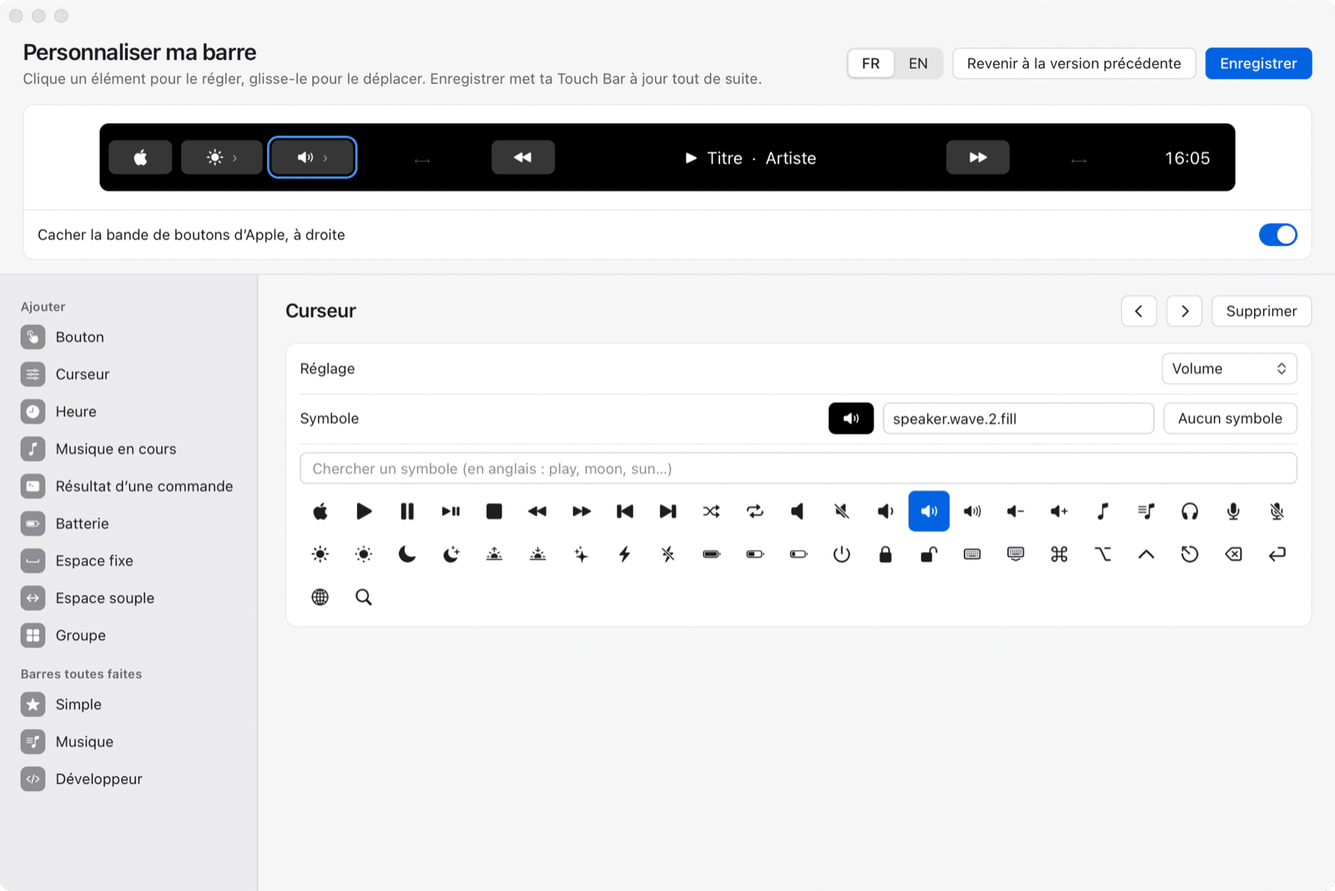
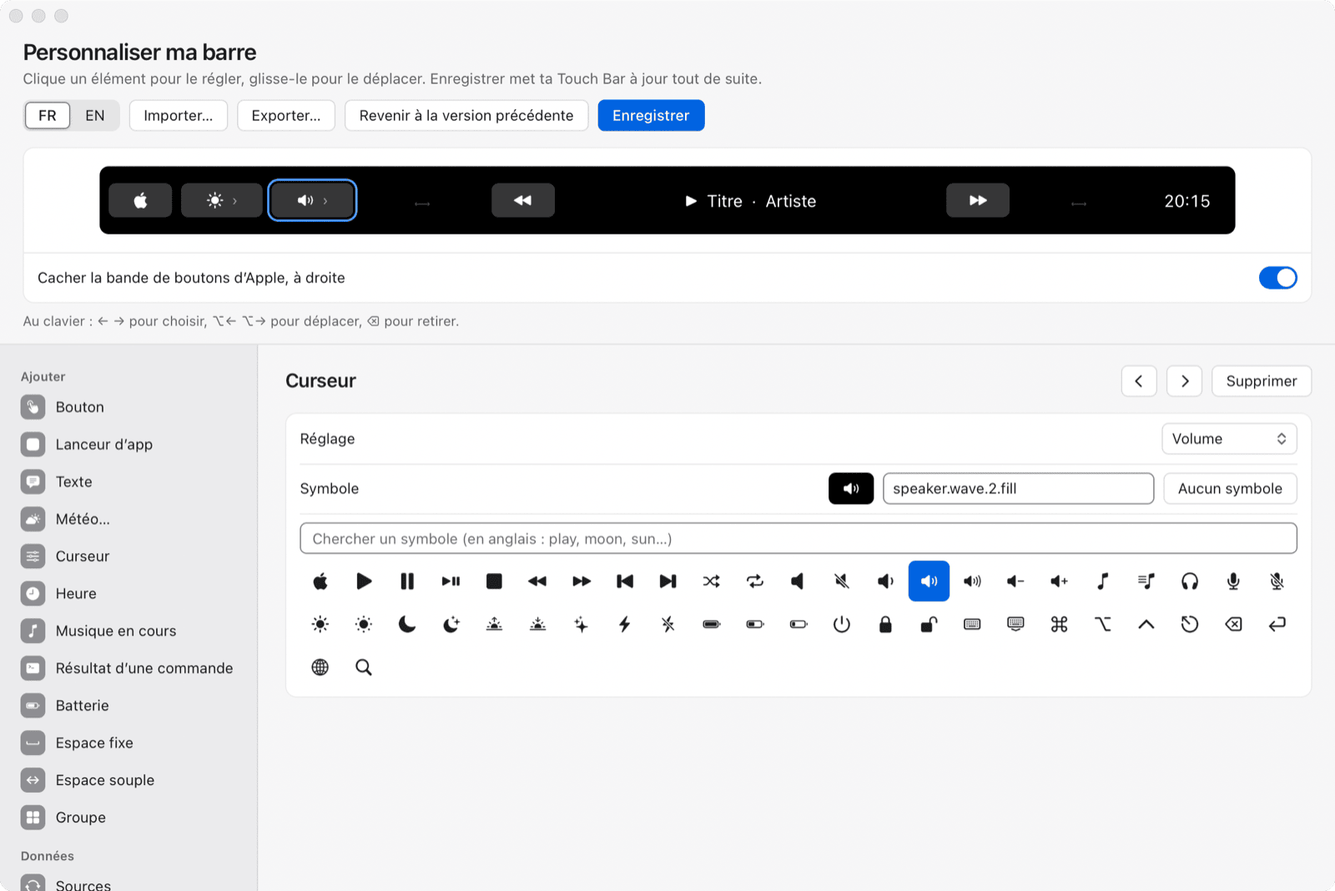
docs: lot E de l'éditeur (README, architecture, changelog, synthèse, captures)
Claude-Session: https://claude.ai/code/session_01F5zcax6QngTrp6o3SE8jCv

diff --git a/docs/ARCHITECTURE.md b/docs/ARCHITECTURE.md
@@ -100,8 +100,8 @@ Tout ce qui touche AppKit tourne sur le fil principal. Le travail lent (une comm
 
 Une `NSWindow` dont la vue de contenu est une `WKWebView` ; la page est `src/editeur/editeur.html`, chargée par `loadHTMLString:baseURL:` (base `file:///`, pour que `localStorage` garde la langue choisie). Tout passe par deux canaux :
 
-- **JS → Rust** : `window.webkit.messageHandlers.tactile.postMessage(JSON)`, reçu par `TactileEditeur` (`userContentController:didReceiveScriptMessage:`). Messages : `pret` (la page est chargée), `enregistrer { barre, fermer? }`, `revenir`, `prereglage { nom }`, `symboles { noms }`, `iconesApps { noms }`, `choisirApp`, `verifierApp { nom }`, `modifie { valeur }`, `fermer`, `ouvrirFichier`, `relire`, `titre { texte }`, `journal { texte }`, `capture { chemin }`, `choisirImage`, `deposerImage { nom, donnees }`, `importerImage { chemin }`, `images { chemins }`, `exporter { barre, zip? }`, `exporterVers { barre, chemin }`, `importer`, `importerBarre { chemin }`, `deposerBarre { nom, donnees }`, `confirmerImport`, `annulerImport`.
-- **Rust → JS** : `evaluateJavaScript:` sur `window.tactile` : `charger(barre, aPrecedent)`, `illisible(message, extrait, aPrecedent)`, `glyphes({ nom: dataURL | null })`, `iconesApps({ app: dataURL | null })`, `enregistre(manuel, aPrecedent)`, `revenu()`, `abimeGarde(nom)`, `erreur(texte)`, `appChoisie(nom)`, `appVerifiee(nom, trouvee, suggestion)`, `demanderFermeture()`, `imageChoisie(chemin, dataURL)`, `imageRefusee(texte)`, `images({ chemin: dataURL | null })`, `exportAvertir(logos, chemin)`, `exporte(nom, logos, avis)`, `importPret({ nom, barre, commandes, avis, logos })`, `importe(manuel, aPrecedent)`, `partageRefuse({ fr, en })`.
+- **JS → Rust** : `window.webkit.messageHandlers.tactile.postMessage(JSON)`, reçu par `TactileEditeur` (`userContentController:didReceiveScriptMessage:`). Messages : `pret` (la page est chargée), `enregistrer { barre, fermer? }`, `revenir`, `prereglage { nom }`, `symboles { noms }`, `iconesApps { noms }`, `choisirApp`, `verifierApp { nom }`, `modifie { valeur }`, `fermer`, `ouvrirFichier`, `relire`, `titre { texte }`, `journal { texte }`, `capture { chemin }`, `choisirImage`, `deposerImage { nom, donnees }`, `importerImage { chemin }`, `images { chemins }`, `exporter { barre, zip? }`, `exporterVers { barre, chemin }`, `importer`, `importerBarre { chemin }`, `deposerBarre { nom, donnees }`, `confirmerImport { ajouter?, barre? }`, `annulerImport`, `mesurer { barre }`, `chercherVille { nom, langue }`, `meteo { nom, latitude, longitude }`, `ouvrirReglages`.
+- **Rust → JS** : `evaluateJavaScript:` sur `window.tactile` : `charger(barre, aPrecedent)`, `illisible(message, extrait, aPrecedent)`, `glyphes({ nom: dataURL | null })`, `iconesApps({ app: dataURL | null })`, `enregistre(manuel, aPrecedent, avis)`, `revenu()`, `abimeGarde(nom)`, `erreur(texte)`, `appChoisie(nom)`, `appVerifiee(nom, trouvee, suggestion, localise)`, `deborde(caches)`, `villes(liste | null, erreur)`, `meteoPrete(source, element)`, `demanderFermeture()`, `imageChoisie(chemin, dataURL)`, `imageRefusee(texte)`, `images({ chemin: dataURL | null })`, `exportAvertir(logos, chemin)`, `exporte(nom, logos, avis)`, `importPret({ nom, barre, commandes, avis, logos, code })`, `importe(manuel, aPrecedent)`, `partageRefuse({ fr, en })`.
 
 La barre circule en JSON avec les mêmes noms que le TOML (`serde_json` sur `config::Barre`, qui dérive `Serialize`). À l'enregistrement, Rust convertit le JSON en `Barre`, écrit le TOML (`config::ecrire`, en-tête fixe + `toml::to_string_pretty`), le **relit** avec `config::lire`, puis `verifier` refuse ce que la barre ne saurait pas afficher (symbole SF inconnu, couleur hors `#RRGGBB`, intervalle < 0,1 s) et `config::controler` ce qui la rendrait inutilisable : une barre principale vide, même avec des `[[application]]` (la barre montrerait « ⚠ config vide »), avec le même message que `--verifier`. Seulement alors le fichier est écrit. La barre se recharge par la surveillance habituelle du fichier : l'éditeur ne parle jamais à `barre::`.
 
@@ -120,6 +120,16 @@ Images venues de l'extérieur : avant tout décodage, `barre::controler_image` (
 Lanceurs : la page demande l'icône de chaque `app` (`iconesApps`), Rust répond avec `barre::icone_app` (cache de la barre, sans le point « ouverte ») en data URL PNG ; la page la garde par nom. Le champ App réutilise « Choisir… » et la vérification / suggestion des actions `app`. Les actions système sont listées sous un intitulé « Système » (`ACTIONS_SYSTEME`).
 
 Exporter et importer (`partage.rs`). L'export part de la barre affichée dans la page (enregistrée ou non) ; sans logo, un `.toml` ; avec, un `.zip` dont le `barre.toml` pointe vers `icones/<nom>` et qui ne contient que les images utilisées. Un `.toml` choisi pour une barre à logos : `exportAvertir`, la page propose le `.zip`. L'import traite le fichier comme non fiable : reconnu `.zip` à sa signature `PK`, lu en mémoire (jamais extrait sous ses propres noms) ; une entrée avec `..`, un chemin absolu (`/`, `\`, `C:`), un lien symbolique ou deux entrées au même nom (le crate `zip` n'en garderait qu'une) fait refuser toute l'archive ; seuls `barre.toml` et `icones/<image>` sont gardés (le reste est listé en avis) ; limites : 10 Mo d'archive (vérifiée avant lecture), 200 entrées, 2 Mo par image et 1 Mo de TOML, relues avec `take` puisque la taille annoncée peut mentir. Les images partent dans un dossier temporaire supprimé avec le `Paquet`. Puis `config::lire`, `config::controler` (grave = refus, le reste en avis) et `verifier`. `commandes` liste ce qui lance quelque chose (`shell`, `applescript`, `touche`, `keycode`, `app`, `url` non http(s), actions système, app d'un `lanceur`, commande d'un `script`, appui long compris, puis chaque `[[source]]` : sa commande, son serveur MCP lancé ou distant, l'adresse lue) ; la page l'affiche avec l'aperçu de la barre et donne le focus à Annuler s'il y en a. « Remplacer ma barre » : chaque logo passe par `icones::importer_en_png` (toujours redessiné en PNG, jamais copié tel quel ; un suffixe `-<8 hex>` du nom d'origine est retiré avant de rajouter le hachage du contenu), puis `enregistrer` écrit avec l'historique. Un `.toml` seul peut emporter les images relatives `icones/x.png` posées à côté de lui (un `.zip` décompressé), sous les mêmes limites. Le dépôt d'un fichier dans la page (image ou barre) est limité à 10 Mo, vérifié par le JS et par Rust avant de décoder le base64 (`icones::decoder_depot`). Le `.zip` exporté réécrit la barre par `config::ecrire` : les commentaires du fichier n'y sont pas ; un `.toml` exporté en ligne de commande recopie le fichier tel quel.
+
+Lot E (0.3) :
+
+- **Menu principal** (`menu_principal`, posé par `ouvrir`) : Édition (Annuler, Rétablir, Couper, Copier, Coller, Tout sélectionner) vise le premier répondeur avec les sélecteurs standards (`undo:`, `paste:`…), comme toute app : sans lui, AppKit ne trouve pas ⌘C ⌘V ⌘X ⌘A ⌘Z et rien ne se passe dans les champs. Fichier › Fermer ⌘W (`performClose:`, donc `windowShouldClose:`), Présentation › Agrandir ⌘+ (et ⌘= caché), Réduire ⌘−, Taille réelle ⌘0 sur le pont (`agrandir:`…), qui règle `pageZoom` de la WKWebView par paliers (75 % à 250 %) et le garde dans `NSUserDefaults` (`TactileZoomEditeur`). Quitter ⌘Q seulement avec `--personnaliser`. La page est en `rem` (sauf l'aperçu, objet à l'échelle 1) ; à 200 % l'en-tête passe à la ligne et l'aperçu se réduit (`zoom` CSS calculé sur l'événement `resize`, pas de ResizeObserver qui bouclerait sur la hauteur qu'il change).
+- **Avertissements après l'enregistrement** : le fichier écrit est relu et passé à `config::controler` (les avis non graves) ; `barres::avis_humain` réécrit les deux cas courants dans les deux langues (app absente, débordement) sans numéro de ligne ni « bundle id », en reconnaissant le texte de `controler` (verrouillé par le test `avis_lisibles`). Les avis d'import passent par la même fonction ; `execute_du_code` dit si la barre importée lance une commande (shell, AppleScript, `script`, source `commande`, serveur MCP lancé), seul cas où la page parle d'effacer des fichiers.
+- **Débordement dans l'aperçu** : à chaque changement, la page envoie `mesurer { barre }` ; Rust répond avec `barre::debordement` (la même estimation que `--verifier`), et la page estompe et barre les `caches` derniers éléments.
+- **Nom traduit** : `chercher_app` essaie, avant la distance d'édition, `app_au_nom_traduit` : `CFBundleDisplayName` / `CFBundleName` de chaque `.app` des dossiers d'apps, dans toutes ses langues (`InfoPlist.loctable` des apps d'Apple, sinon `<langue>.lproj/InfoPlist.strings`, lus par `NSDictionary`). Spotlight ne suffit pas : il n'indexe que la langue du système.
+- **Météo et sources** : `chercherVille` construit l'adresse de géocodage Open-Meteo (nom encodé, 5 résultats) et l'appelle sur un autre fil par `sources::http::requete` (le `curl` des sources, 8 s au plus) ; la réponse revient sur le fil principal par `performSelectorOnMainThread:` sur le pont (`executer:`). `meteo` construit la `[[source]]` et l'élément `texte` d'après `exemples/meteo.toml` (symboles WMO, couleurs), coordonnées vérifiées. La section Sources de la page modifie `barre.source` directement ; un renommage (à la fin de la saisie, refusé si le nom est pris) suit dans les éléments qui la citent.
+- **Ajouter à ma barre** : `confirmerImport { ajouter: true, barre }` remplace `paquet.barre` par `barres::fusionner(barre de la page, barre reçue)` (éléments à la fin, barres d'application fusionnées par app, source au nom pris renommée `nom 2` avec ses éléments, source identique non doublée), puis `partage::installer` comme pour un remplacement. Une barre toute faite garde les barres d'application **et** les sources qu'elles citent (`barres::prereglage`).
+- **Accessibilité de la page** : le focus est rendu après chaque redessin (`dessinerBarre` si le focus était dans l'aperçu ; `cleFocus` / `rendreFocus` retrouvent un contrôle du panneau par son id ou ses `data-`), le voisin reçoit le focus après une suppression, annulable par « Annuler » ou ⌘Z (hors champ ; dans un champ, l'Annuler du menu reste à WebKit). Noms accessibles de l'aperçu (« Lanceur d'app Safari, ouvre Safari, 2 sur 9 »), `aria-selected` vrai/faux, grille de symboles en listbox à un seul arrêt de tabulation. `etat()` prend une fonction rappelée au changement de langue, ne réécrit pas un message identique et passe en `role="alert"` pour une erreur. Jetons : `--controle-bord` (bord de champ, interrupteur éteint, segment choisi, ≥ 3:1), `--attention` (orange AA), anneau de focus opaque `--accent`.
 
 Les symboles SF n'existent pas dans le web : Rust les rend en PNG (`NSImage imageWithSystemSymbolName:` → `TIFFRepresentation` → `NSBitmapImageRep`), les envoie en data URL, et la page les affiche en `mask-image` sur `currentColor`. Un nom inconnu renvoie `null` : la page le signale et l'enregistrement le refuse (un symbole inconnu fait planter la barre, cf. SYNTHESE A1).
 

diff --git a/docs/retours/0.3/SYNTHESE.md b/docs/retours/0.3/SYNTHESE.md
@@ -1,0 +1,63 @@
+# Synthèse de la campagne de tests 0.3
+
+Demandée par l'utilisateur : tests unitaires, tests fonctionnels sur la vraie barre, personas IA. Rapports dans ce dossier : `couverture.md` (unitaires), `fonctionnel.md` (vraie barre), `nadia-debutante.md`, `lise-btt.md`, `sam-english-dev.md`, `karim-securite.md` (sécurité), `ines-accessibilite.md` (accessibilité). L'écran du Mac est resté verrouillé presque toute la campagne : ce qui dépend de l'affichage est à revoir écran ouvert.
+
+Déjà corrigé pendant la campagne (branche des tests unitaires, intégrée) : intervalle `1e300` qui faisait planter la barre, `nan`/`inf` acceptés, `http://localhost:80@example.org/` envoyé en clair à un tiers, action d'un élément `texte` absente de l'aperçu d'import, deux `barre.toml` dans un zip, compte de logos faux, arrondis de volume/luminosité et de nombres passés par la page.
+
+## Lot S — sécurité (avant toute release)
+
+| # | Problème | Source | Gravité |
+|---|---|---|---|
+| S1 | L'aperçu d'import ne montre pas les `entetes` d'une source : un `trousseau:` peut envoyer un secret de l'utilisateur à une URL tierce toutes les 5 s | Karim | haute |
+| S2 | Revue complète de ce que l'aperçu d'import doit montrer : tout ce qui exécute, lit un secret, lit un fichier ou appelle le réseau, pour **chaque** type d'élément et de source (une seule fonction exhaustive, `match` sans `_ =>`), confirmation renforcée si trousseau + URL non locale | Karim, Lise, unitaires | haute |
+| S3 | Sortie d'une commande (script, source `commande`, MCP stdio) lue sans plafond : `cat /dev/zero` sature la mémoire avant le délai | Karim | moyenne |
+| S4 | `image` d'une barre importée peut pointer n'importe quel fichier (`/etc/passwd`, `~/.ssh/…`) | Karim | basse |
+| S5 | Messages JS `capture`, `importerImage`, `importerBarre` : chemin libre sans garde | Karim | basse |
+
+## Lot E — éditeur (Nadia, Lise, Inès)
+
+| # | Problème | Source | Gravité |
+|---|---|---|---|
+| E1 | Pas de menu Édition : ⌘C / ⌘V / ⌘X / ⌘A / ⌘Z probablement inopérants dans les champs | Inès | majeur |
+| E2 | Météo impossible sans TOML : pas d'élément Texte/Météo dans la palette, pas de réglage de source ni de ville ; import qui remplace tout (pas d'« Ajouter à ma barre ») | Nadia | majeur |
+| E3 | Lanceur d'app absente (Figma) ou nom localisé (« Musique ») enregistré comme réussi ; alerte ⚠ blanche sur blanc en clair | Nadia | majeur |
+| E4 | Barre qui déborde enregistrée comme réussie ; l'aperçu ne montre pas ce qui sera caché | Nadia | majeur |
+| E5 | Barre toute faite : efface les `[[source]]` mais garde les `[[application]]` qui les citent | Lise | moyen |
+| E6 | Focus perdu après Entrée, choix de symbole, Supprimer ; ⌫ supprime sans confirmation ni annulation ; raccourcis de déplacement non dits | Inès | majeur |
+| E7 | VoiceOver : aperçu « Bouton, Bouton… » sans nom ; `aria-selected="null"` ; grille de symboles (aria-pressed sur role=option, 48 arrêts de tabulation) ; `aria-live` qui relit tout | Inès | majeur |
+| E8 | Contrastes : anneau de focus 1,69:1, interrupteur éteint 1,17:1, segment choisi 1,26:1, bordures 1,45:1, placeholder 3,26:1, lien accent sombre 4,46:1 | Inès | majeur |
+| E9 | Zoom : pas de ⌘+ / ⌘−, à 200 % Enregistrer sort de l'écran | Inès | moyen |
+| E10 | Monochrome sur une image sans transparence → bloc blanc sans avertissement ; capture d'écran sans mention de l'autorisation Accessibilité ; changer de langue efface l'erreur affichée ; libellés d'import (`capture_zone`, « bundle id », « effacer des fichiers ») | Nadia | mineur |
+
+État du lot E : **fait**. Preuves : tests Rust, et le pilote `TACTILE_EDITEUR_JS` qui passe par les vrais contrôles de la page (46 assertions, toutes vertes en clair et en sombre ; scripts et captures dans le scratchpad de la session, `lotE3/fonc.js`, `lotE3/contrastes.js`).
+
+| # | Fait | Preuve |
+|---|---|---|
+| E1 | Menu principal quand la fenêtre est ouverte : Édition (Annuler, Rétablir, Couper, Copier, Coller, Tout sélectionner, sélecteurs standards vers le premier répondeur), Fichier › Fermer ⌘W, Présentation › Agrandir ⌘+ / Réduire ⌘− / Taille réelle ⌘0 | test `menu_principal_complet` (actions, raccourcis, cibles, réponse du pont). Pas essayé au vrai clavier : écran verrouillé |
+| E2 | Texte et Météo… dans la palette ; ville cherchée par géocodage Open-Meteo (seulement au clic, `curl` des sources, autre fil) ; source + texte WMO d'après `exemples/meteo.toml` ; section Sources (nom, type, adresse ou commande, intervalle) ; import « Ajouter à ma barre » (fusion, sources renommées) | tests `meteo_d_une_ville`, `fusion_des_elements_sources_et_applications` ; pilote : Lyon trouvée, source « Météo Lyon » et texte créés, renommage suivi, `exemples/meteo.toml` ajouté (10 éléments, sources `Lyon`, `meteo`). Capture `docs/editeur-meteo-sombre.png` |
+| E3 | Avis de `controler` après l'enregistrement (« Enregistré, 1 avertissement : l’app Figma n’est pas installée sur ce Mac. ») ; « Musique » → « Music » par les noms traduits des bundles ; ⚠ orange et « pas installée » dans le groupe | tests `avis_lisibles`, `app_installee_ou_non` (Musique, calendrier, Réglages Système) ; pilote ; ⚠ du groupe 1:1 → 5,57:1 en clair |
+| E4 | L'aperçu estompe et barre ce qui sera caché, « 1 élément ne tient pas : la Touch Bar le cachera » ; même avis après l'enregistrement | pilote (estimation Rust `barre::debordement` par `mesurer`) |
+| E5 | Barre toute faite : les `[[source]]` citées par les barres d'application gardées restent | test `barre_toute_faite_garde_les_sources_des_applications` |
+| E6 | Focus rendu après Entrée, flèches, choix de symbole, Supprimer (voisin) ; ⌫ annulable (« Annuler » ou ⌘Z) ; aide clavier sous l'aperçu | pilote : `activeElement` vérifié après chaque geste |
+| E7 | Noms accessibles (« Lanceur d’app Safari, ouvre Safari, 2 sur 5 »), `aria-selected` vrai/faux, `aria-orientation`, grille en listbox à tabindex itinérant, plus d'`aria-live` sur le panneau, message identique non réécrit, erreur en `role=alert` | pilote |
+| E8 | Contrastes AA | mesures avant → après (clair ; sombre) : anneau de focus 1,69 → 5,02 ; 2,11 → 6,16 · interrupteur éteint 1,33 → 4,51 ; 1,28 → 3,90 · bord de champ 1,45 → 3,98 ; 1,56 → 3,42 · segment choisi 1,26 → 3,15 ; 1,92 → 4,48 · placeholder 3,26 → 5,07 ; 3,45 → 5,31 · lien accent sombre 4,46 → 5,35 · ⚠ app absente 1,00 → 5,57 ; blanc → orange 7,44 |
+| E9 | Texte en `rem`, zoom de la page (`pageZoom`, gardé), en-tête qui passe à la ligne, aperçu réduit à la largeur | pilote à `zoom: 2` : Enregistrer dans la fenêtre, aucun défilement horizontal ; capture regardée |
+| E10 | Image opaque en monochrome signalée ; « Demande l’autorisation Accessibilité » + « Ouvrir les réglages » sur les frappes simulées ; la langue garde le message (l'erreur reste une erreur) ; import sans `capture_zone`, sans numéro de ligne ni « bundle id », « effacer des fichiers » seulement si la barre lance une commande | test `code_execute_seulement_si_commande` ; pilote |
+
+## Lot C — config, CLI, contribution (Sam, Lise)
+
+| # | Problème | Source | Gravité |
+|---|---|---|---|
+| C1 | Le README décrit des fonctions absentes de la release téléchargeable (0.2.0), `--version` dit 0.2.0 | Sam | majeur → release 0.3.0 |
+| C2 | `{text}` dans un `template` affiche « — » alors que `--check` dit OK ; `--check` doit valider les variables d'un gabarit | Sam | moyen |
+| C3 | Les messages citent la clé française même quand l'utilisateur a écrit l'alias anglais ; `template` chaîne sur un bouton → « attendu true ou false » | Sam | moyen |
+| C4 | Même app sous deux noms (`Finder` / `com.apple.finder`) non détectée ; message trompeur pour un bundle id absent ; lignes d'erreur d'un zip importé renvoient au fichier réécrit ; `cmd++` refusé | Lise | mineur |
+| C5 | CONTRIBUTING : `cargo not found` sans `mise exec`, durée des tests, étape 3 bloquante, raisons d'`ignore` en français ; README:229 incomplet (modificateurs) | Sam | mineur |
+
+## Lot F — vraie barre
+
+Voir `fonctionnel.md` (à compléter à l'arrivée du rapport de la vague B).
+
+## Reportés
+
+Barre d'Apple automatique par app (`barre = "apple"`), liste d'apps (`app = [...]`), éditeur des barres par app et des sources (prévu au chantier éditeur), import BTT, essai sur Mac Intel.

diff --git a/README.fr.md b/README.fr.md
@@ -128,16 +128,23 @@ L'icône de la barre des menus donne accès à tout :
 
 Dans le menu, choisis **Personnaliser ma barre…**. La fenêtre montre ta Touch Bar en haut, à sa vraie taille. Elle prend la langue du Mac ; FR / EN en haut à droite.
 
-- À gauche, **Ajouter** : un clic ajoute un bouton, un curseur, l'heure, la musique en cours, le résultat d'une commande, la batterie, un espace ou un groupe. Les trois **barres toutes faites** (Simple, Musique, Développeur) remplacent ta barre par un modèle que tu peux ensuite retoucher.
-- Dans l'aperçu, clique un élément pour le régler, glisse-le pour le déplacer. Au clavier : flèches pour passer d'un élément à l'autre, ⌥ + flèches pour le déplacer, suppr pour le retirer.
+- À gauche, **Ajouter** : un clic ajoute un bouton, un lanceur d'app, un texte, la météo, un curseur, l'heure, la musique en cours, le résultat d'une commande, la batterie, un espace ou un groupe. Les trois **barres toutes faites** (Simple, Musique, Développeur) remplacent ta barre par un modèle que tu peux ensuite retoucher.
+- Dans l'aperçu, clique un élément pour le régler, glisse-le pour le déplacer. Au clavier : flèches pour passer d'un élément à l'autre, ⌥ + flèches pour le déplacer, ⌫ pour le retirer (le message « Annuler » ou ⌘Z le remet). Ce qui ne tiendra pas dans la Touch Bar est estompé et barré, avec « 2 éléments ne tiennent pas » sous l'aperçu.
+- **Météo…** : tape le nom d'une ville, choisis-la dans la liste ; la fenêtre ajoute un texte avec la température et le symbole du temps, et la source Open-Meteo qui le nourrit. Seul le nom de la ville part sur le réseau, et seulement quand tu cliques **Chercher**. **Sources**, sous **Données**, liste les sources de ta barre : nom, adresse web ou commande, intervalle ; un élément Texte choisit la sienne dans une liste.
+
+  ![La fenêtre en sombre, avec la météo de Lyon ajoutée](docs/editeur-meteo-sombre.png)
 - À droite, les réglages de l'élément choisi : texte, symbole (cherche dans la liste, ou tape le nom exact d'un symbole SF), couleurs du fond et du texte, taille du texte, symbole seul ou texte seul, largeur, et ce qui se passe au toucher : lancer une application (le bouton **Choisir…** ouvre ton dossier Applications), ouvrir une adresse web, envoyer un raccourci clavier (`cmd+shift+4`), une commande shell ou AppleScript, ou une action système (luminosité, volume, lecture…). Un appui long peut faire autre chose. Ce que la fenêtre ne sait pas régler (un `keycode`) est gardé tel quel à l'enregistrement.
 - Pour mettre ton propre logo sur un bouton, clique **Choisir une image…** ou glisse le fichier sur le bouton : il est copié dans `~/.config/tactile/icones/` (un SVG, un PDF ou un icns y devient un PNG) et peut s'afficher en monochrome, comme les symboles Apple.
-- Un nom d'application tapé à la main est vérifié : s'il n'existe pas sur ton Mac, la fenêtre le dit sous le champ et propose le plus proche (« Photoshop » → « Adobe Photoshop 2025 »). **Choisir…** reste le plus sûr.
-- **Enregistrer** écrit le fichier et ta Touch Bar change dans la seconde. Si quelque chose cloche (un symbole qui n'existe pas, une couleur mal écrite, une barre vide), rien n'est écrit et la fenêtre te dit quoi corriger. Tant que tu n'as pas enregistré, « Modifié » s'affiche à côté du titre, et la fenêtre te demande confirmation avant de fermer, de charger une barre toute faite ou de revenir en arrière.
+- Un nom d'application tapé à la main est vérifié : s'il n'existe pas sur ton Mac, la fenêtre le dit sous le champ et propose le plus proche (« Photoshop » → « Adobe Photoshop 2025 »). Le nom que montre le Finder marche aussi : « Musique » propose « Music », le nom que la barre attend. **Choisir…** reste le plus sûr.
+- Un raccourci clavier, la touche esc ou une capture d'écran demandent l'autorisation Accessibilité : la fenêtre le dit sous l'action, avec un bouton qui ouvre le bon panneau de Réglages Système. Une image sans fond transparent est signalée quand tu passes en monochrome (elle deviendrait un bloc).
+- **Enregistrer** écrit le fichier et ta Touch Bar change dans la seconde. Si quelque chose cloche (un symbole qui n'existe pas, une couleur mal écrite, une barre vide), rien n'est écrit et la fenêtre te dit quoi corriger. Ce qui marchera mal sans tout bloquer est dit après l'enregistrement : « Enregistré, 1 avertissement : l'app Figma n'est pas installée sur ce Mac. » Tant que tu n'as pas enregistré, « Modifié » s'affiche à côté du titre, et la fenêtre te demande confirmation avant de fermer, de charger une barre toute faite ou de revenir en arrière.
 - **Revenir à la version précédente** remonte d'un enregistrement à chaque clic. Les 5 dernières versions sont gardées à côté de ta barre (`barre.toml.precedent`, puis `.precedent-2` à `.precedent-5`) ; la version que tu quittes passe en dernier, donc rien n'est perdu.
 - Si tu avais écrit ton fichier à la main avec des commentaires, le premier enregistrement depuis la fenêtre en garde une copie intacte, `barre.toml.manuel`, que la fenêtre ne remplace jamais.
 - **Exporter…** enregistre ta barre pour la partager ou la passer sur un autre Mac : un fichier `.toml`, ou un `.zip` avec `barre.toml` et les logos qu'elle utilise, si elle en a. Si tu choisis `.toml` pour une barre qui a des logos, la fenêtre te propose le `.zip`.
 - **Importer…** (ou un `.toml` / `.zip` glissé n'importe où dans la fenêtre) montre la barre reçue à sa vraie taille et liste tout ce qu'elle peut lancer sur ton Mac : commandes shell, AppleScript, raccourcis clavier, commandes des scripts, apps ouvertes, adresses qui ne sont pas des pages web, et ce que lance ou lit chaque source de données (commande, serveur MCP, adresse). Rien ne change avant **Remplacer ma barre** ; ta barre actuelle passe alors dans l'historique, et **Revenir à la version précédente** la rétablit. Les logos sont redessinés en PNG dans `icones/`. Une archive avec des chemins en `..`, des chemins absolus ou des liens symboliques est refusée, comme une archive de plus de 10 Mo, une image de plus de 2 Mo ou plus de 200 fichiers ; tout ce qui n'est pas `barre.toml` ou une image de `icones/` est ignoré.
+- **Ajouter à ma barre**, à côté de **Remplacer ma barre**, garde ta barre et ajoute à la fin les éléments reçus, leurs sources (renommées si le nom est déjà pris) et leurs barres d'application. L'avertissement « une commande peut tout faire » n'apparaît que si la barre reçue lance vraiment une commande ou un script.
+- Une barre toute faite garde tes barres d'application et les sources qu'elles citent.
+- Les menus **Édition** (Annuler, Copier, Coller, Tout sélectionner…), **Fichier** (Fermer ⌘W) et **Présentation** (Agrandir ⌘+, Réduire ⌘−, Taille réelle ⌘0) marchent comme dans toute app Mac ; le zoom choisi est gardé, et la fenêtre reste utilisable à 200 %.
 - Si ton fichier contient une erreur, la fenêtre ne montre pas de barre vide : elle affiche la ligne en cause et désactive Enregistrer. Tu peux **ouvrir le fichier** pour le corriger, puis le **relire**, ou **repartir d'une barre toute faite** ; dans ce cas, ton fichier est d'abord copié en `barre.toml.abime-AAAAMMJJ-HHMMSS`.
 
 Pour ouvrir la fenêtre seule, sans prendre la Touch Bar : `tactile --personnaliser`.

diff --git a/README.md b/README.md
@@ -128,16 +128,23 @@ Everything starts from the menu bar icon. The menu is in French for now; here is
 
 Choose **Personnaliser ma barre…** in the menu. The window shows your Touch Bar at the top, at its real size. Its language follows your Mac; the FR / EN switch is at the top right.
 
-- **Add** (left column): one click adds a button, a slider, the clock, now playing, a command's output, the battery, a space or a group. The three **ready-made bars** (Simple, Music, Developer) replace your bar with a template you can then adjust.
-- **In the preview**, click an item to edit it and drag it to move it. With the keyboard: arrows move the selection, ⌥ + arrows move the item, delete removes it.
+- **Add** (left column): one click adds a button, an app launcher, a text, the weather, a slider, the clock, now playing, a command's output, the battery, a space or a group. The three **ready-made bars** (Simple, Music, Developer) replace your bar with a template you can then adjust.
+- **In the preview**, click an item to edit it and drag it to move it. With the keyboard: arrows move the selection, ⌥ + arrows move the item, ⌫ removes it (the "Undo" link or ⌘Z puts it back). Whatever won't fit on the Touch Bar is faded and struck through, with "2 items don't fit" under the preview.
+- **Weather…**: type a city name and pick it from the list; the window adds a text with the temperature and a weather symbol, plus the Open-Meteo source behind it. Only the city name goes over the network, and only when you click **Search**. **Sources**, under **Data**, lists your bar's data sources: name, web address or command, interval; a Text item picks its source from a list.
+
+  ![The window in dark mode, with the weather for Lyon added](docs/editeur-meteo-sombre.png)
 - **On the right**, the selected item's settings: text, symbol (search the list or type an exact SF Symbol name), background and text colors, text size, symbol only or text only, width, and what a tap does: open an app (**Choose…** opens your Applications folder), open a web address, send a keyboard shortcut (`cmd+shift+4`), run a shell command or an AppleScript, or a system action (brightness, volume, playback…). A long press can do something else. Settings the window can't edit yet (a `keycode`) are kept as they are when you save.
 - To put your own logo on a button, click **Choose an image…** or drop the file onto the button; it is copied to `~/.config/tactile/icones/` (SVG, PDF and icns files become a PNG there) and can be shown monochrome, like Apple's symbols.
-- An app name typed by hand is checked: if your Mac has no app by that name, the window says so under the field and offers the closest one ("Photoshop" → "Adobe Photoshop 2025"). **Choose…** is still the safest way.
-- **Save** writes the file and the Touch Bar changes within a second. If something is wrong (a symbol that doesn't exist, a malformed color, an empty bar), nothing is written and the window tells you what to fix. Until you save, "Edited" shows next to the title, and the window asks before closing, loading a ready-made bar or going back.
+- An app name typed by hand is checked: if your Mac has no app by that name, the window says so under the field and offers the closest one ("Photoshop" → "Adobe Photoshop 2025"). The name the Finder shows in another language works too: "Musique" offers "Music", the name the bar needs. **Choose…** is still the safest way.
+- A keyboard shortcut, the esc key or a screenshot action needs the Accessibility permission: the window says so under the action, with a button that opens the right System Settings pane. An image without a transparent background is flagged when you turn on monochrome (it would become a solid block).
+- **Save** writes the file and the Touch Bar changes within a second. If something is wrong (a symbol that doesn't exist, a malformed color, an empty bar), nothing is written and the window tells you what to fix. What will work badly without blocking anything is shown after saving: "Saved, 1 warning: Figma isn't installed on this Mac." Until you save, "Edited" shows next to the title, and the window asks before closing, loading a ready-made bar or going back.
 - **Go back to the previous version** steps back one save per click. The last 5 versions are kept next to your bar (`barre.toml.precedent`, then `.precedent-2` to `.precedent-5`); the version you leave moves to the end, so nothing is lost.
 - If you wrote your file by hand with comments, the first save from the window keeps an untouched copy, `barre.toml.manuel`, which the window never overwrites.
 - **Export…** saves your bar to share it or move it to another Mac: a `.toml` file, or a `.zip` holding `barre.toml` and the logos it uses when it has any. If you pick `.toml` for a bar with logos, the window offers the `.zip` instead.
 - **Import…** (or drop a `.toml` or `.zip` anywhere in the window) shows the incoming bar at real size and lists everything it can run on your Mac: shell commands, AppleScript, keyboard shortcuts, script commands, apps it opens, addresses that aren't web pages, and what each data source runs or fetches (command, MCP server, URL). Nothing changes until you click **Replace my bar**; your current bar then goes into the history, so **Go back to the previous version** brings it back. Logos are redrawn as PNG into `icones/`. Archives with `..` paths, absolute paths or symbolic links are refused, as are archives over 10 MB, images over 2 MB and more than 200 files; anything other than `barre.toml` and `icones/` images is ignored.
+- **Add to my bar**, next to **Replace my bar**, keeps your bar and appends the incoming items, their sources (renamed if the name is taken) and their app bars. The "a command can do anything" warning only shows when the incoming bar really runs a command or a script.
+- A ready-made bar keeps your app bars and the sources they use.
+- The **Edit** (Undo, Copy, Paste, Select All…), **File** (Close ⌘W) and **View** (Zoom In ⌘+, Zoom Out ⌘−, Actual Size ⌘0) menus work as in any Mac app; the zoom level is kept, and the window stays usable at 200%.
 - If your file has an error, the window doesn't show an empty bar: it shows the faulty line and turns Save off. You can **open the file** to fix it, then **reload** it, or **start from a ready-made bar**; your file is then first copied to `barre.toml.abime-YYYYMMDD-HHMMSS`.
 
 To open the window on its own, without taking over the Touch Bar: `tactile --customize` (or `--personnaliser`).

diff --git a/CHANGELOG.md b/CHANGELOG.md
@@ -16,12 +16,27 @@ All notable changes to Tactile are documented here. The format follows [Keep a C
 - Editor: add an app launcher (on its own or in a group) with the app's real icon in the preview, and pick the 11 system actions under a "System" heading. Import lists what launchers and system actions open or type.
 - `TACTILE_MESURE=1` logs how long reloads, app switches and sub-bars take.
 
+- Editor: a Text item and a Weather… panel in the sidebar: search a city (Open-Meteo geocoding, only when you click Search, through the same `curl` path as data sources), and the window adds the Open-Meteo `[[source]]` and a `texte` item with WMO weather symbols. A Sources section lists the bar's sources (name, web address or command, interval) and edits them; renaming a source updates the items that use it.
+- Editor: Import offers **Add to my bar** next to Replace my bar: items, sources and app bars are merged, and a source whose name is taken is renamed along with the items that use it.
+- Editor: a main menu while the window is open (Edit: Undo, Redo, Cut, Copy, Paste, Select All; File: Close ⌘W; View: Zoom In ⌘+, Zoom Out ⌘−, Actual Size ⌘0, remembered). ⌘C, ⌘V, ⌘X, ⌘A and ⌘Z now work in the fields.
+- Editor: Delete/⌫ on a preview item can be undone (an "Undo" link in the status line, or ⌘Z); keyboard shortcuts are shown under the preview.
+
 ### Changed
+
+- Editor: saving still succeeds when something will work badly, but says so ("Saved, 1 warning: Figma isn't installed on this Mac"): the same checks as `--verifier`. The preview fades and strikes through the items the Touch Bar will hide, with "2 items don't fit".
+- Editor: an app name as the Finder shows it in another language ("Musique") is found and the folder name ("Music") offered. Shortcut, esc and screenshot actions say they need the Accessibility permission, with a button to the right System Settings pane. A non-transparent image in monochrome gets a warning.
+- Editor accessibility: focus stays on the same item after every redraw (Enter, symbol choice, Delete); preview items have full accessible names ("App launcher Safari, opens Safari, 2 of 9") and real `aria-selected` values; the symbol grid is a listbox with one tab stop and arrow keys; only short status messages are announced. Contrast meets WCAG AA in light and dark (focus ring, switches off, selected segment, field borders, placeholders, dark-mode links, the missing-app ⚠). Text is sized in rem and the layout holds at 200%.
+- Editor: switching language keeps the message on screen (an error stays an error); import labels are plainer (no internal action names, no line numbers or "bundle id" in warnings, the "can delete files" warning only for bars that run a command).
+- Editor: Replace (ready-made bar) and Go back put the focus on Cancel.
 
 - Editor: redesigned like macOS System Settings (sidebar, grouped rows, switches, light and dark), suggests the closest symbol for a typo, and `capture` now uses WebKit snapshots that work with the screen locked (`TACTILE_APPARENCE=clair|sombre` forces the theme).
 - The bar follows a saved file in under 300 ms (was up to 1 s): the file is checked every 0.2 s, the new bar is applied right away, and warnings are computed after it.
 - Images (button `image`, script JSON image, logos added or imported) are refused above 4096 × 4096 pixels, read from the file header before any decoding; SVG and PDF are rendered at most 4096 px wide. A tiny PNG announcing 30000 × 30000 px no longer makes the bar allocate gigabytes.
 - Editor: a file dropped in the window is limited to 10 MB, with a clear message (it was unbounded on the Rust side).
+
+### Fixed
+
+- A ready-made bar dropped the `[[source]]` entries used by the app bars it kept, which then showed "⚠ source".
 
 ## [0.2.0] - 2026-10-26
 
